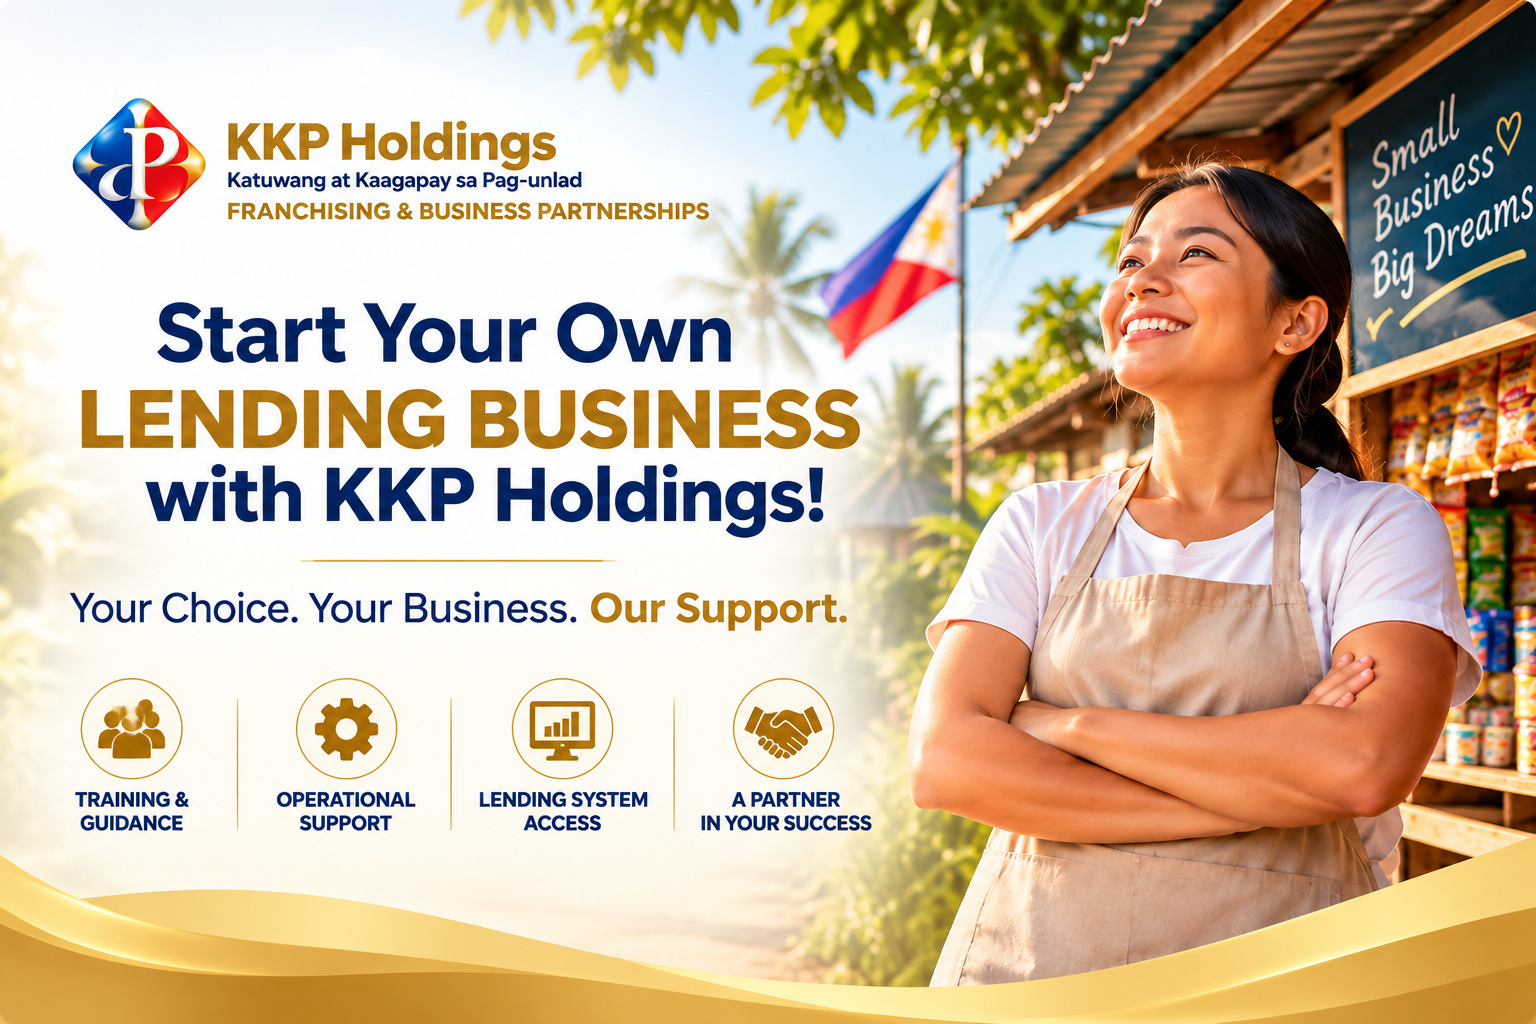
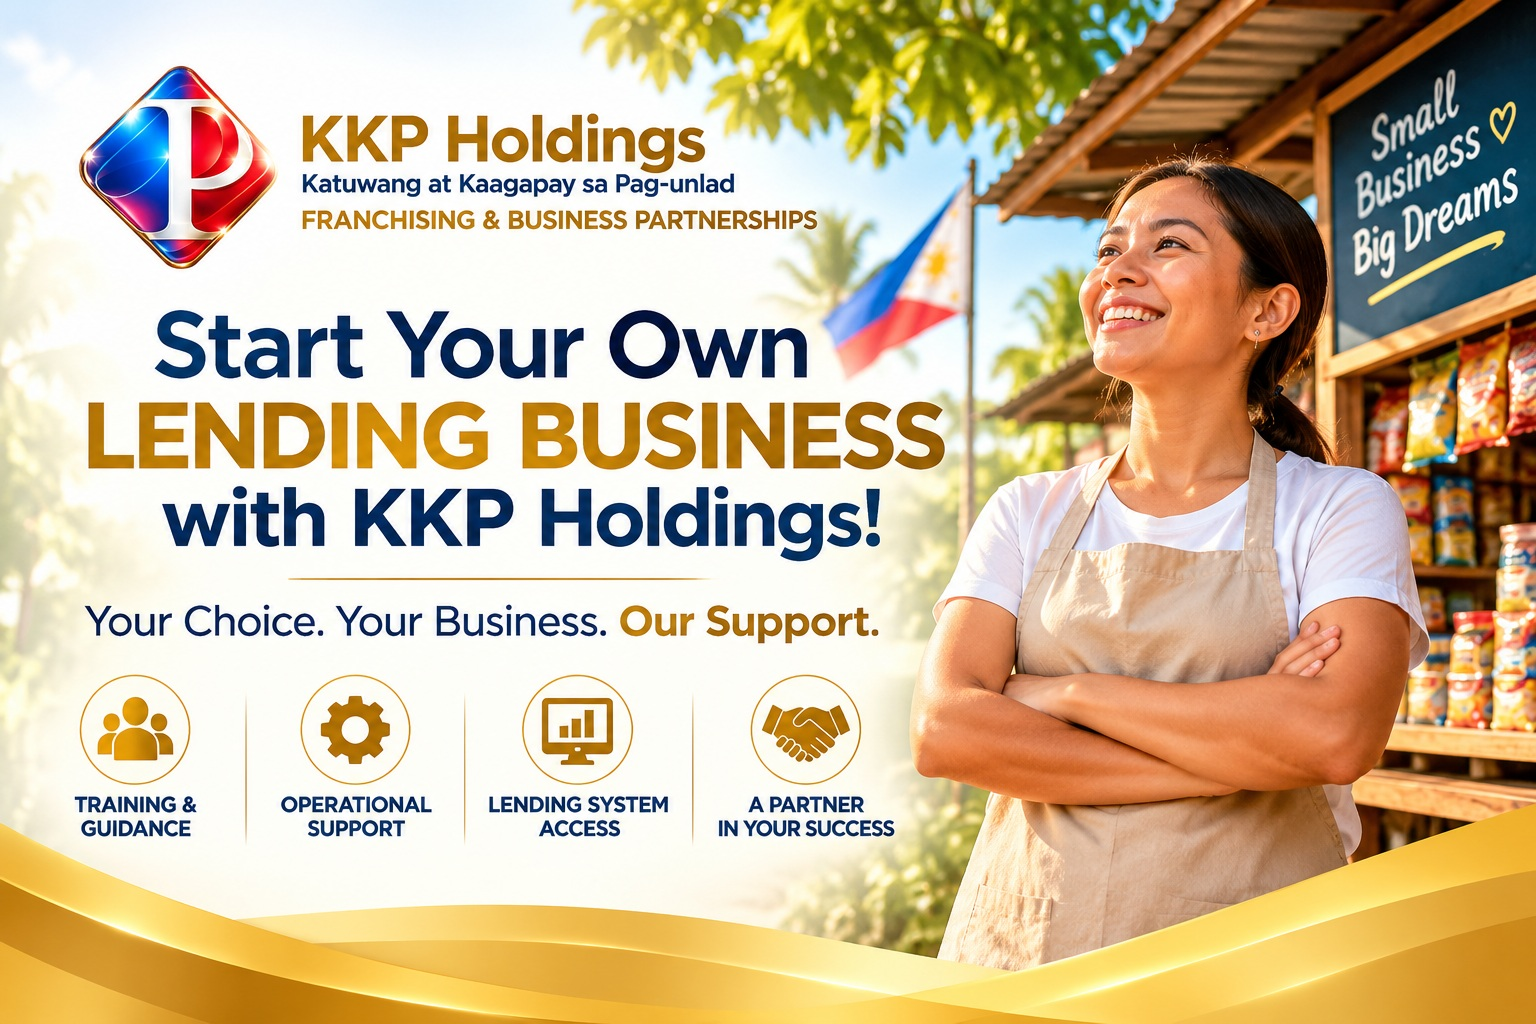
Add files via upload

diff --git a/index.html b/index.html
@@ -878,8 +878,8 @@ section.section#calculator .kkp-center .btn:hover{background:#2475d7!important}
 #kkpFranchisePopup.kkp-popup-visible{display:flex}
 #kkpFranchisePopup .kkp-popup-frame{position:relative;width:min(100%,1120px);max-height:calc(100dvh - 36px);border-radius:19px;overflow:hidden;box-shadow:0 25px 90px rgba(0,0,0,.45);background:#fff}
 #kkpFranchisePopup .kkp-popup-frame img{display:block;width:100%;max-height:calc(100dvh - 36px);height:auto;object-fit:contain}
-/* The X is already printed in the artwork: clickable transparent hit area, no second X. */
-#kkpFranchisePopup .kkp-popup-close{position:absolute;right:1.3%;top:2%;width:6.2%;height:9%;min-width:30px;min-height:30px;border:0;background:transparent;cursor:pointer;z-index:2;border-radius:50%;color:transparent;font-size:0}
+/* The artwork contains no X. This is the only close button. */
+#kkpFranchisePopup .kkp-popup-close{position:absolute;right:12px;top:12px;width:44px;height:44px;display:grid;place-items:center;border:2px solid #bd8b25;background:rgba(255,255,255,.97);color:#9b6b13;font-size:29px;line-height:1;font-weight:500;cursor:pointer;z-index:3;border-radius:50%;box-shadow:0 4px 15px rgba(0,0,0,.18)}
 #kkpFranchisePopup .kkp-popup-close:focus-visible{outline:3px solid #075dcc;outline-offset:-3px}
 @media(max-width:600px){#kkpFranchisePopup{padding:8px}#kkpFranchisePopup .kkp-popup-frame{border-radius:12px}#kkpFranchisePopup .kkp-popup-close{min-width:32px;min-height:32px}}
 </style>
@@ -1116,7 +1116,7 @@ body.kkp-high-contrast :focus-visible{outline:3px solid #f59e0b!important;outlin
 <div id="kkpFranchisePopup" role="dialog" aria-modal="true" aria-label="KKP Holdings franchise opportunities" aria-hidden="true">
   <div class="kkp-popup-frame">
     <img src="kkp-homepage-franchise-popup.jpg" alt="Start your own lending business with KKP Holdings — training, operational support, and lending system access" />
-    <button type="button" class="kkp-popup-close" aria-label="Close promotion" title="Close promotion"></button>
+    <button type="button" class="kkp-popup-close" aria-label="Close promotion" title="Close promotion">&times;</button>
   </div>
 </div>
 <script id="kkp-franchise-popup-script">
@@ -1125,18 +1125,11 @@ body.kkp-high-contrast :focus-visible{outline:3px solid #f59e0b!important;outlin
   var popup=document.getElementById('kkpFranchisePopup');
   if(!popup) return;
   var closeButton=popup.querySelector('.kkp-popup-close');
-  var key='kkp_homepage_franchise_popup_dismissed';
-  var dismissed=false;
-  try{dismissed=sessionStorage.getItem(key)==='1';}catch(e){}
-  if(!dismissed){
-    popup.classList.add('kkp-popup-visible');
-    popup.setAttribute('aria-hidden','false');
-    closeButton.focus({preventScroll:true});
-  }
+  popup.classList.add('kkp-popup-visible');
+  popup.setAttribute('aria-hidden','false');
   function closePopup(){
     popup.classList.remove('kkp-popup-visible');
     popup.setAttribute('aria-hidden','true');
-    try{sessionStorage.setItem(key,'1');}catch(e){}
   }
   closeButton.addEventListener('click',closePopup);
   popup.addEventListener('click',function(event){if(event.target===popup)closePopup();});
